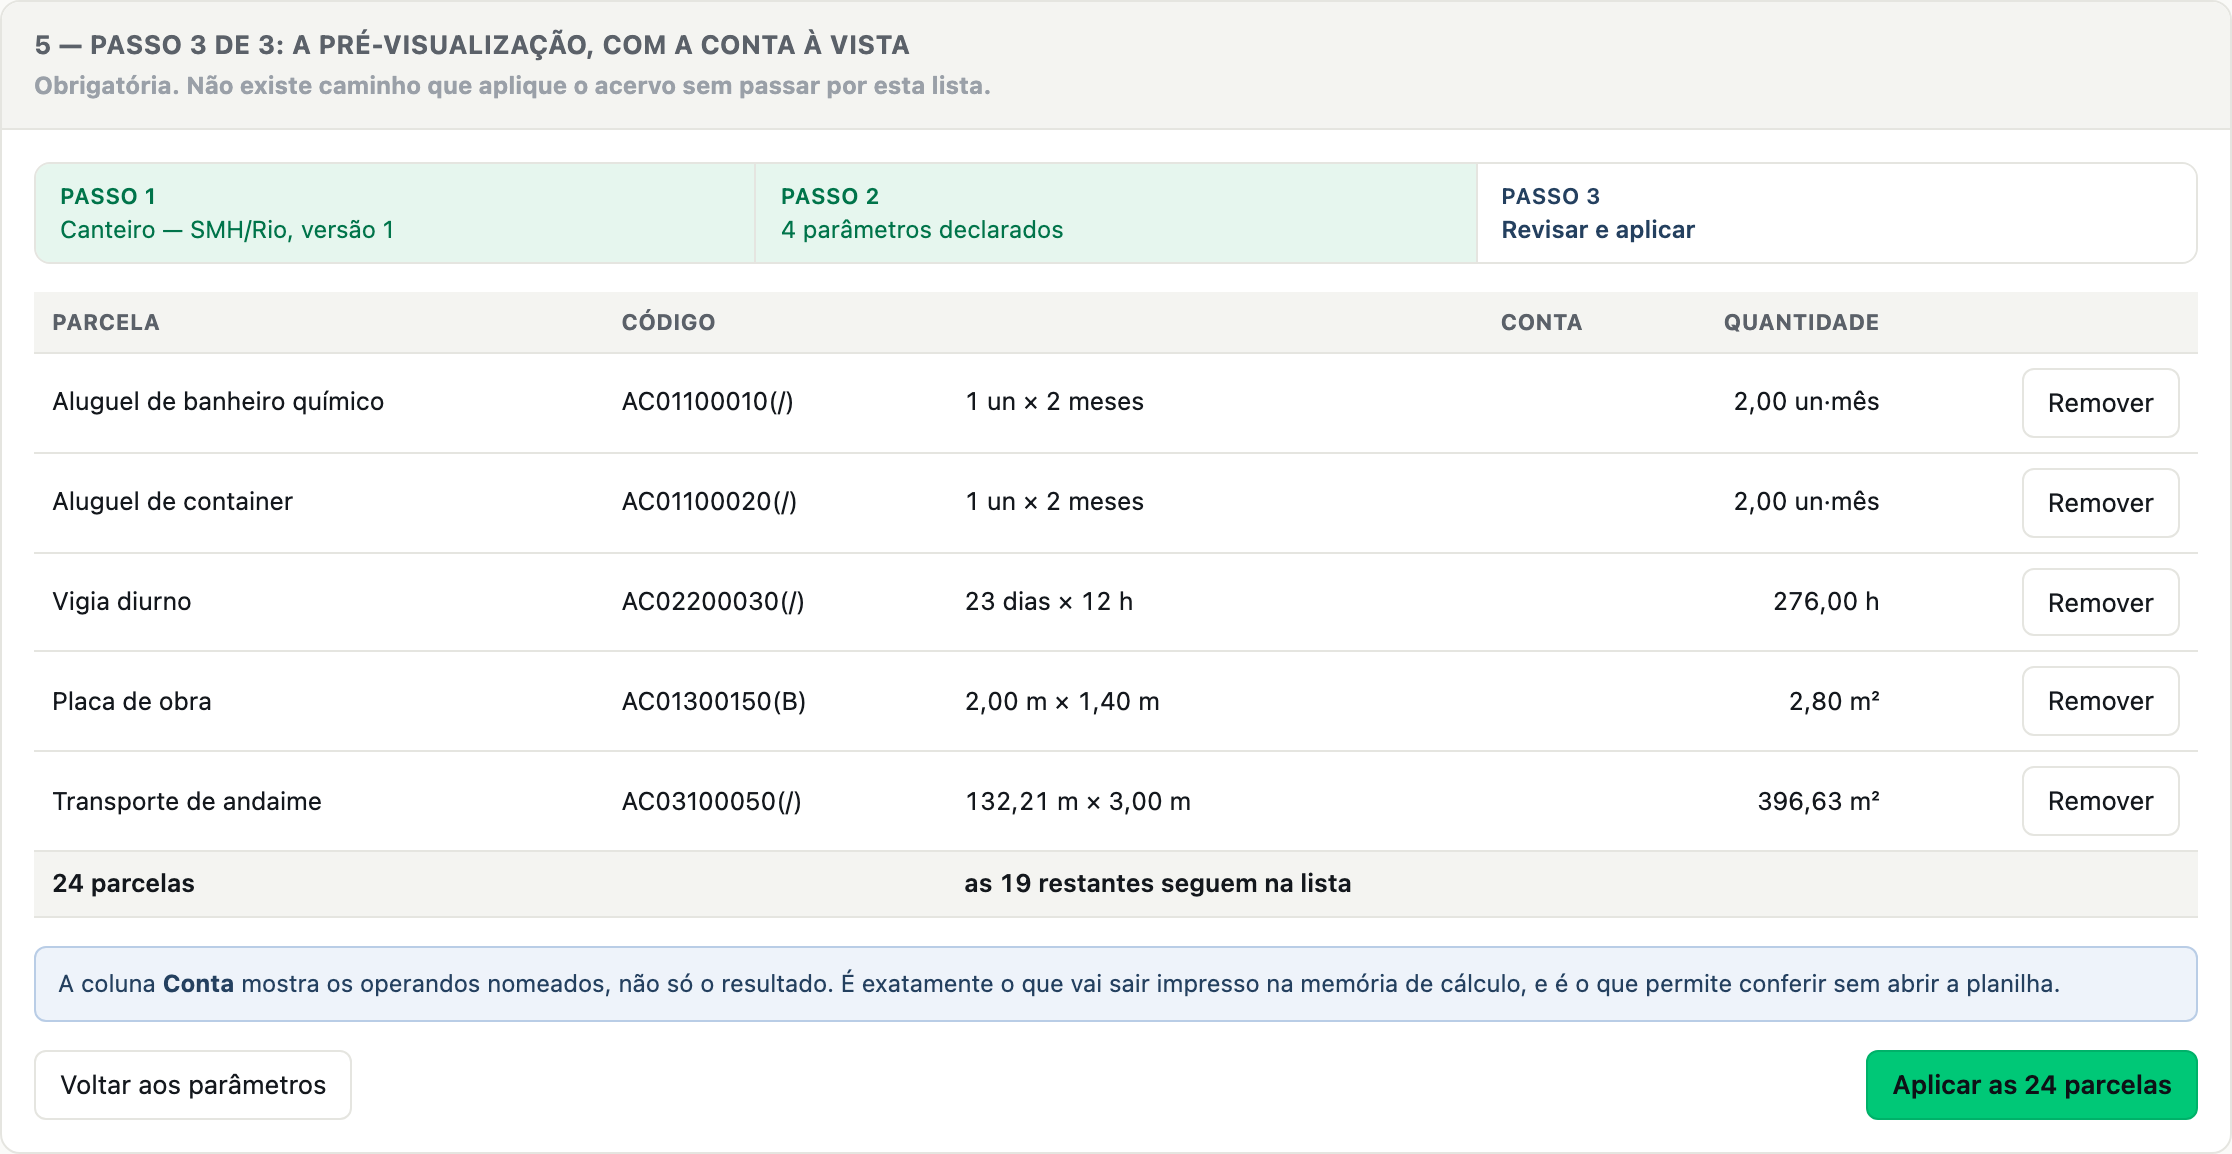
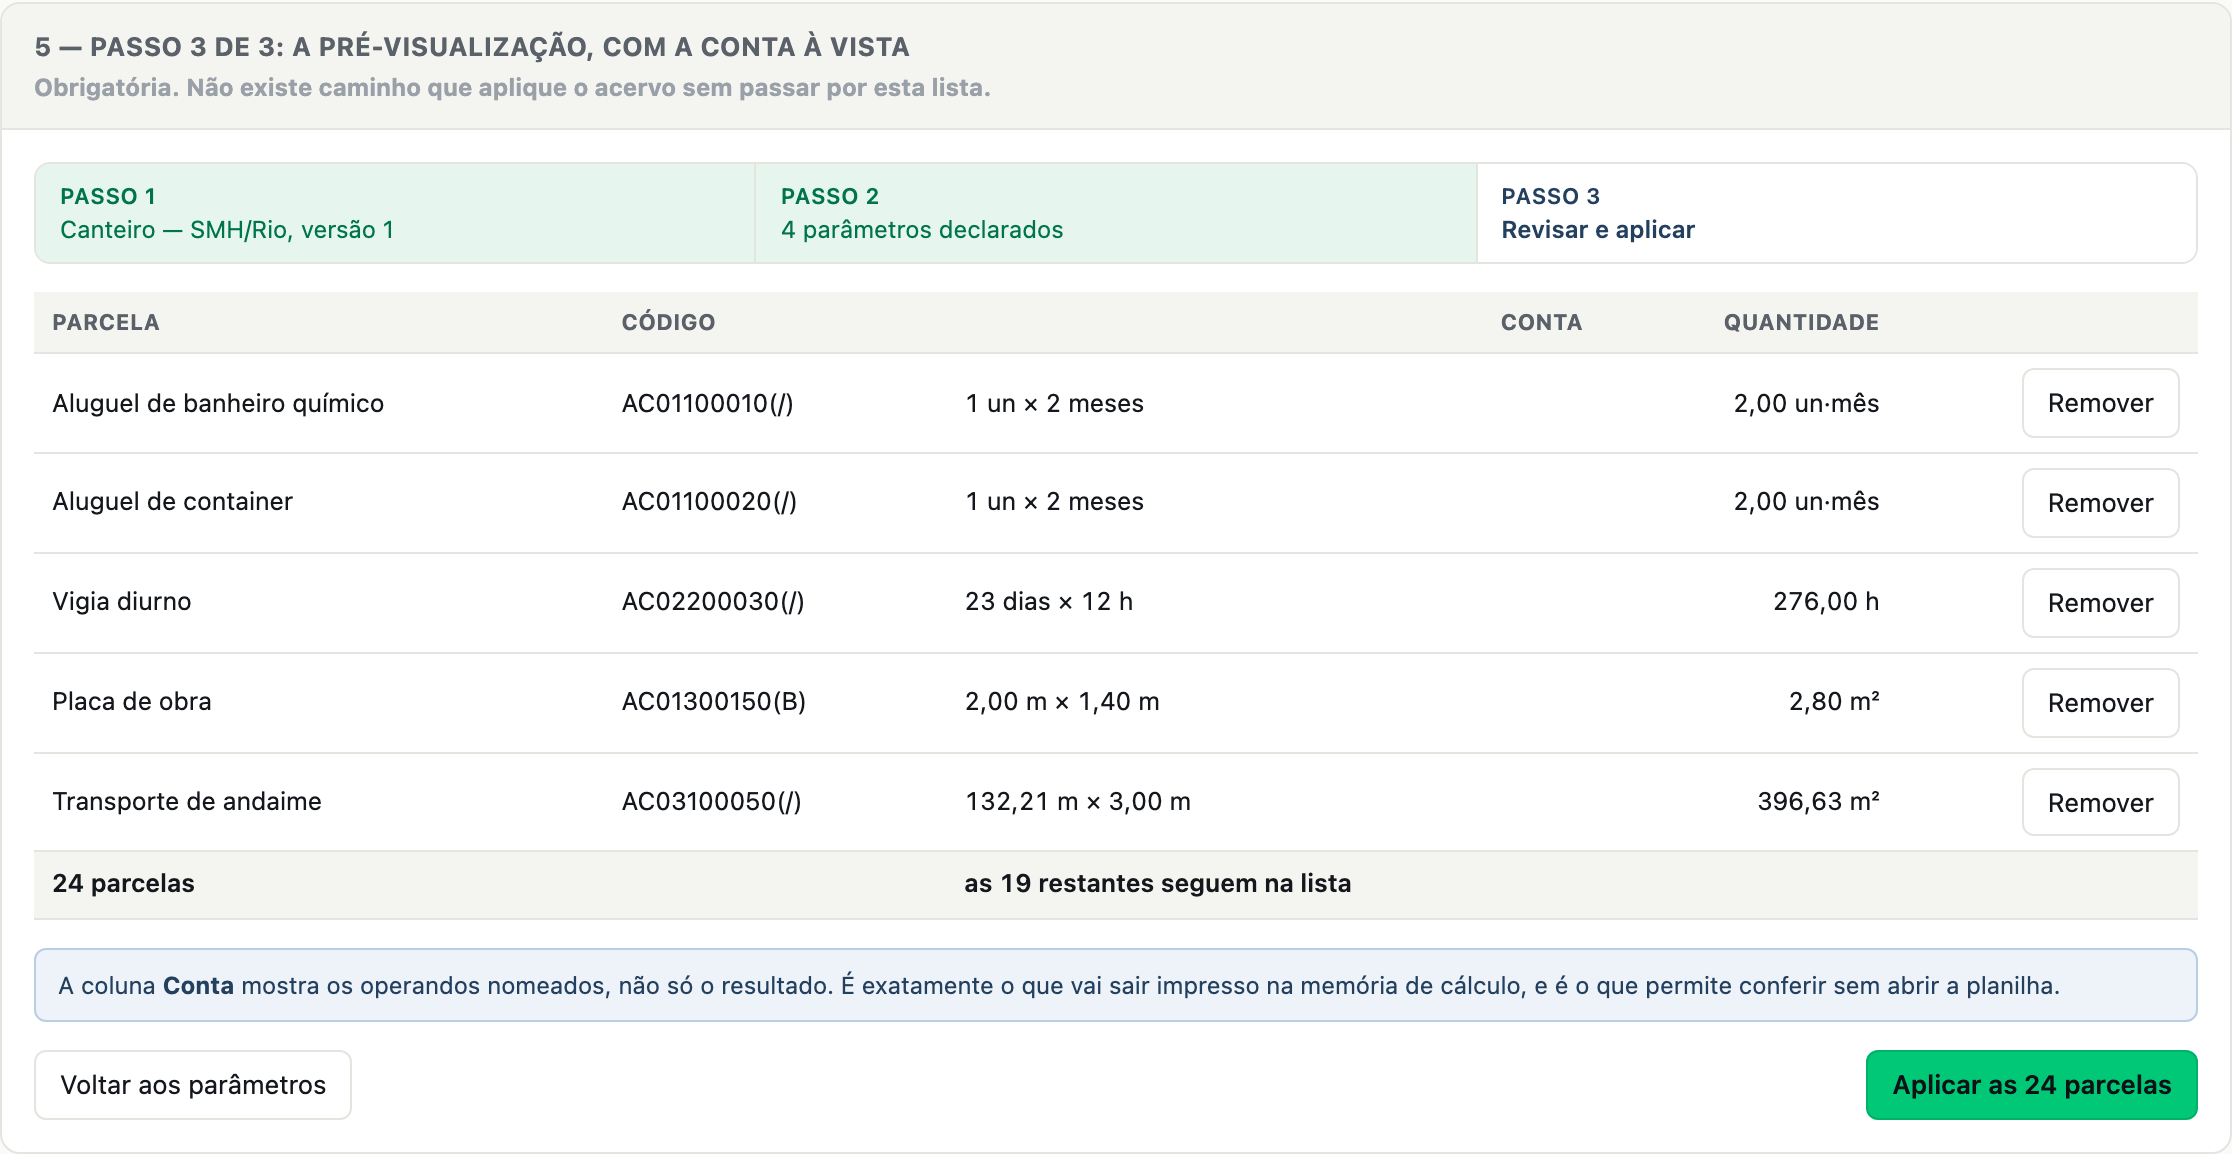
docs(F-042): revisão 2 do pacote — a prévia marca o bloqueado em vez de recusar
A revisão 1 foi aprovada e construída, e a implementação da tela expôs um beco sem
saída no próprio pacote: a recusa de parâmetro faltante dizia 'declare, ou remova na
pré-visualização as parcelas que os citam', mas acontecia ANTES de a pré-visualização
existir. Um acervo de 24 parcelas em que só 2 citam um parâmetro que a orçamentista
não tem ficava inteiramente inaplicável. O mesmo valia para o código ausente.

A emenda: pré-visualizar é ler, e ler não materializa nada — a lista mostra todas as
parcelas e marca as bloqueadas, com o que falta no lugar da quantidade, e a linha
bloqueada continua removível. A falha fechada continua inteira no ato de aplicar,
nomeando todos os faltantes e não materializando nem as parcelas completas.

Decisões 5 e 9 emendadas, decisão 10 acrescentada (aplicar indisponível traz o motivo
nomeado, nunca um botão apagado). As outras oito ficam intactas — inclusive a que mais
importa, a de que não existe caminho que aplique sem passar pela pré-visualização.

diff --git a/docs/features/F-042-acervo-de-parcelas-de-canteiro/mock/acervo-de-parcelas-de-canteiro.html b/docs/features/F-042-acervo-de-parcelas-de-canteiro/mock/acervo-de-parcelas-de-canteiro.html
@@ -158,6 +158,13 @@
         font-variant-numeric: tabular-nums;
         color: var(--ink);
       }
+      tr.bloqueada td {
+        background: #fdf5e8;
+        color: var(--atencao);
+      }
+      tr.bloqueada td.acao {
+        color: var(--ink);
+      }
       tr.removida td {
         background: var(--surface-sunken);
         color: var(--muted);
@@ -555,46 +562,88 @@
 
       <section class="estado">
         <h2>
-          4 — A recusa do parâmetro faltante
+          4 — O que está bloqueado aparece na lista, em vez de barrar a lista
           <small
-            >Falha fechada: nomeia todos os que faltam, e não materializa nenhuma parcela — nem
-            as que estariam completas.</small
+            >Pré-visualizar é ler, e ler não materializa nada. A falha fechada continua
+            inteira no ato de aplicar.</small
           >
         </h2>
         <div class="corpo">
-          <div class="linha-campos">
-            <label class="campo">
-              Prazo de obra
-              <input type="text" value="2" />
-              <span class="pedido">meses · citado por 6 parcelas</span>
-            </label>
-            <label class="campo">
-              Semiperímetro
-              <input class="faltante" type="text" value="" />
-              <span class="pedido">m · citado por 2 parcelas</span>
-            </label>
-            <label class="campo">
-              Altura do alambrado
-              <input class="faltante" type="text" value="" />
-              <span class="pedido">m · citado por 2 parcelas</span>
-            </label>
-            <label class="campo">
-              Dias de vigia (12 h)
-              <input type="text" value="23" />
-              <span class="pedido">dias · citado por 1 parcela</span>
-            </label>
+          <div class="aviso atencao">
+            <strong>2 das 24 parcelas não podem nascer:</strong> falta declarar
+            <strong>semiperímetro</strong> e <strong>altura do alambrado</strong>. Declare os
+            parâmetros, ou remova estas duas parcelas para aplicar as outras 22.
+          </div>
+          <table>
+            <thead>
+              <tr>
+                <th>Parcela</th>
+                <th>Código</th>
+                <th>Conta</th>
+                <th class="mono">Quantidade</th>
+                <th>&nbsp;</th>
+              </tr>
+            </thead>
+            <tbody>
+              <tr>
+                <td>Aluguel de banheiro químico</td>
+                <td>AC01100010(/)</td>
+                <td class="conta-celula">1 un × 2 meses</td>
+                <td class="mono">2,00 un·mês</td>
+                <td class="acao"><button>Remover</button></td>
+              </tr>
+              <tr>
+                <td>Vigia diurno</td>
+                <td>AC02200030(/)</td>
+                <td class="conta-celula">23 dias × 12 h</td>
+                <td class="mono">276,00 h</td>
+                <td class="acao"><button>Remover</button></td>
+              </tr>
+              <tr class="bloqueada">
+                <td>Transporte de andaime</td>
+                <td>AC03100050(/)</td>
+                <td class="conta-celula">SEMIPERÍMETRO × ALTURA DO ALAMBRADO</td>
+                <td class="mono">falta declarar semiperímetro</td>
+                <td class="acao"><button>Remover</button></td>
+              </tr>
+              <tr class="bloqueada">
+                <td>Montagem de alambrado provisório</td>
+                <td>AC03100080(/)</td>
+                <td class="conta-celula">SEMIPERÍMETRO × ALTURA DO ALAMBRADO</td>
+                <td class="mono">falta declarar altura do alambrado</td>
+                <td class="acao"><button>Remover</button></td>
+              </tr>
+              <tr class="total">
+                <td>22 parcelas podem nascer</td>
+                <td>&nbsp;</td>
+                <td class="conta-celula">2 bloqueadas</td>
+                <td class="mono">&nbsp;</td>
+                <td>&nbsp;</td>
+              </tr>
+            </tbody>
+          </table>
+          <div class="acoes">
+            <button>Voltar aos parâmetros</button>
+            <button class="primario empurra" disabled>Aplicar</button>
+          </div>
+          <div class="aviso">
+            O botão fica indisponível <strong>com o motivo escrito ao lado</strong>, nunca só
+            apagado. E a linha bloqueada continua removível — é assim que se aplica as 22 sem
+            ter o parâmetro que as outras 2 exigem.
           </div>
           <div class="aviso recusa">
-            <strong>Nada foi aplicado.</strong> O acervo “Canteiro — SMH/Rio, versão 1” cita dois
-            parâmetros que não foram declarados: <strong>semiperímetro</strong> e
-            <strong>altura do alambrado</strong>. Declare os dois, ou remova na pré-visualização
-            as parcelas que os citam.
+            <strong>No ato de aplicar, a recusa continua fechada.</strong> Se o pedido chegar ao
+            servidor com parcela bloqueada, ele recusa nomeando <strong>todos</strong> os
+            parâmetros faltantes e <strong>nada</strong> é materializado — nem as parcelas que
+            estariam completas. Prever não é aplicar.
           </div>
-          <p>
-            A recusa nomeia os parâmetros por extenso e diz as duas saídas. Aplicar “o que dá” e
-            deixar o resto para depois produziria uma planilha parcial que parece completa.
-          </p>
         </div>
+        <p class="nota-implementador">
+          Emenda da revisão 2. Na revisão 1 a recusa acontecia aqui, antes da lista existir — e
+          a própria mensagem oferecia "remova na pré-visualização", uma saída que não havia
+          como alcançar. O mesmo vale para o código ausente do catálogo (estado 8): ele agora
+          marca a linha, e a recusa fechada continua no ato.
+        </p>
       </section>
 
       <section class="estado">
@@ -810,15 +859,20 @@
           >
         </h2>
         <div class="corpo">
+          <div class="aviso atencao">
+            <strong>1 parcela não pode nascer:</strong> o acervo “Canteiro — SMH/Rio, versão 1”
+            cita o código <strong>AC03100050(/)</strong>, que não existe no catálogo desta
+            rodada (SCO-Rio, Fev/2026). Remova a parcela para aplicar as demais, escolha outro
+            acervo, ou publique uma versão dele que use um código do catálogo vigente.
+          </div>
           <div class="aviso recusa">
-            <strong>Nada foi aplicado.</strong> O acervo “Canteiro — SMH/Rio, versão 1” cita o
-            código <strong>AC03100050(/)</strong>, que não existe no catálogo desta rodada
-            (SCO-Rio, Fev/2026). Escolha outro acervo, publique uma versão nova dele, ou remova
-            a parcela na pré-visualização.
+            <strong>No ato de aplicar, a recusa continua fechada</strong> e nomeia o código.
+            Nada é materializado.
           </div>
           <p>
             Pular a parcela em silêncio produziria um orçamento com uma linha a menos e nenhum
-            sinal — o modo de falha mais caro que este pacote precisa impedir.
+            sinal — o modo de falha mais caro que este pacote precisa impedir. Marcá-la na lista
+            não é pular: é dizer, e deixar a decisão com quem orça.
           </p>
         </div>
       </section>

diff --git a/docs/features/F-042-acervo-de-parcelas-de-canteiro/mock/README.md b/docs/features/F-042-acervo-de-parcelas-de-canteiro/mock/README.md
@@ -1,8 +1,8 @@
 # Design Approval Package — F-042, o acervo de parcelas de canteiro
 
 Classification: INTERFACE_CHANGE  
-Revision: 1  
-Status: **Approved (2026-08-28)**  
+Revision: **2**  
+Status: **Awaiting approval** (a revisão 1 foi aprovada em 2026-08-28)  
 Date: 2026-08-28  
 Produced by: agente (Claude Code)
 
@@ -16,14 +16,46 @@ Produced by: agente (Claude Code)
 > [ADR-0059](../../../adr/0059-item-contratado-fora-da-tabela-sco.md) já foi cumprido em
 > 2026-08-28.
 
+## Por que existe uma revisão 2
+
+A revisão 1 foi aprovada e construída. Ao implementar a tela, apareceu um **beco sem saída no
+próprio pacote**: a recusa de parâmetro faltante dizia *"Declare os dois, **ou remova na
+pré-visualização** as parcelas que os citam"* — mas a recusa acontecia **antes** da
+pré-visualização existir. Não havia lista de onde remover. Um acervo de 24 parcelas em que
+apenas 2 citam um parâmetro que a orçamentista não tem ficava **inteiramente** inaplicável.
+
+O mesmo beco valia para o código ausente do catálogo.
+
+**Emenda aprovada pelo dono em 2026-08-28**: a pré-visualização deixa de recusar e passa a
+**mostrar todas as parcelas, marcando as bloqueadas**. Pré-visualizar é ler, e ler não
+materializa nada; a falha fechada continua **inteira** no ato de aplicar.
+
+O que muda, em uma frase por item:
+
+- **Decisão 5 é emendada**: a recusa por parâmetro faltante sai da pré-visualização e fica só
+  no ato. Na lista, a parcela bloqueada diz o que falta no lugar da quantidade, e continua
+  removível — é assim que se aplicam as 22 sem ter o parâmetro que as outras 2 exigem.
+- **Decisão 9 é emendada** do mesmo jeito, para o código ausente do catálogo: ele marca a
+  linha, e a recusa fechada continua no ato.
+- **Decisão nova (10)**: aplicar fica indisponível enquanto houver parcela bloqueada não
+  removida, **com o motivo nomeado ao lado** — nunca um botão apagado sem explicação. A tela
+  só pode fazer isso porque a pré-visualização lhe deu a informação exata, parcela a parcela;
+  o servidor continua recusando fechado se o ato chegar mesmo assim.
+- **As oito outras decisões da revisão 1 ficam intactas**, incluindo a que mais importa: não
+  existe caminho que aplique sem passar pela pré-visualização.
+
+A captura `04-recusa-parametro.png` da revisão 1 foi substituída por
+[`04-bloqueadas-na-lista.png`](04-bloqueadas-na-lista.png), e `08-recusa-codigo.png` por
+[`08-codigo-ausente.png`](08-codigo-ausente.png).
+
 ## Registro de aprovação
 
 | Campo | Valor |
 | --- | --- |
-| O que se aprova | a composição visual da revisão 1 e as nove decisões listadas abaixo |
-| Aprovado por | Daniel Campos |
-| Data | 2026-08-28 |
-| Revisão | 1 |
+| O que se aprova | a composição visual da revisão 2, as duas decisões emendadas, a decisão 10 e as oito decisões da revisão 1 que ela preserva |
+| Aprovado por | — |
+| Data | — |
+| Revisão | 2 |
 | Explicitamente **não** coberto | a copy final; os códigos, nomes de parâmetro e números das capturas, que são sintéticos; **quais** são as 24 parcelas do Campo do Toca, que dependem da autoria humana do primeiro acervo; e a decisão do ADR-0060, que é gate próprio |
 
 Aprovar esta revisão não aprova a seguinte: pacote materialmente alterado é revisão nova e
@@ -38,11 +70,11 @@ precisa de registro próprio.
 | [`01-onde-vive.png`](01-onde-vive.png) | Onde a superfície vive: a etapa Códigos, hoje sem apoio nenhum para o canteiro |
 | [`02-escolher-acervo.png`](02-escolher-acervo.png) | Passo 1 — escolher o acervo, com a versão à vista |
 | [`03-declarar-parametros.png`](03-declarar-parametros.png) | Passo 2 — declarar os parâmetros de obra que o acervo cita |
-| [`04-recusa-parametro.png`](04-recusa-parametro.png) | A recusa do parâmetro faltante, nomeando todos os que faltam |
+| [`04-bloqueadas-na-lista.png`](04-bloqueadas-na-lista.png) | O que está bloqueado aparece na lista, com o que falta no lugar da quantidade |
 | [`05-previsualizacao.png`](05-previsualizacao.png) | Passo 3 — a pré-visualização obrigatória, com a conta à vista |
 | [`06-remover-parcela.png`](06-remover-parcela.png) | Remover uma parcela que não se aplica |
 | [`07-aplicado.png`](07-aplicado.png) | Aplicado: a parcela na matriz, com a proveniência e a reaplicação |
-| [`08-recusa-codigo.png`](08-recusa-codigo.png) | A recusa do código ausente do catálogo da rodada |
+| [`08-codigo-ausente.png`](08-codigo-ausente.png) | O código ausente do catálogo marca a linha; a recusa fechada fica no ato |
 | [`09-autoria.png`](09-autoria.png) | Guardar as parcelas da rodada como acervo novo ou versão nova |
 
 Os números são sintéticos, mas **aritmeticamente consistentes**: `1 × 2 = 2,00`;
@@ -62,8 +94,9 @@ banheiro químico, container, vigia, placa de obra e transporte de andaime.
 | Aplicar acervo | passo 2 — parâmetros | sim (03) |
 | Aplicar acervo | passo 3 — pré-visualização | sim (05) |
 | Aplicar acervo | pré-visualização com parcela removida | sim (06) |
-| Aplicar acervo | recusa — parâmetro faltante | sim (04) |
-| Aplicar acervo | recusa — código ausente do catálogo | sim (08) |
+| Aplicar acervo | pré-visualização com parcela bloqueada por parâmetro faltante | sim (04) |
+| Aplicar acervo | pré-visualização com parcela bloqueada por código ausente | sim (08) |
+| Aplicar acervo | recusa fechada do **ato**, nomeando todos os faltantes | sim (04, como aviso) |
 | Aplicar acervo | acervo vazio / nenhum acervo disponível | **não** — ver questões abertas |
 | Aplicar acervo | carregando | **não** — o cálculo é local e determinístico; a etapa não tem espera de rede própria além da que a jornada já tem |
 | Aplicar acervo | sem papel para aplicar | **não** — a etapa Códigos inteira já é gateada pelo papel da jornada, e este pacote não introduz permissão nova |
@@ -128,6 +161,10 @@ sugestão de parâmetro simplesmente não existe na tela.
    as parcelas que estariam completas. Aplicar "o que dá" produziria uma planilha parcial com
    aparência de completa, que é o modo de falha mais caro desta feature.
 
+   **Emendado na revisão 2**: essa recusa vale para o **ato de aplicar**, não para a
+   pré-visualização. Prever é ler; a lista mostra tudo e marca o que não pode nascer, porque
+   sem a lista não existia a saída que a própria recusa oferecia.
+
 6. **A remoção é por parcela, na prévia, e a parcela removida continua visível, riscada.** Ela
    sai da conta, não da tela: sumir por completo deixaria a lista curta sem dizer o que saiu.
    Remover é reversível até aplicar.
@@ -141,9 +178,18 @@ sugestão de parâmetro simplesmente não existe na tela.
    a leitura visual da idempotência que a feature exige. O carimbo mostra os parâmetros da
    última aplicação, para que "reaplicar" não seja um salto no escuro.
 
-9. **Código do acervo ausente do catálogo é recusa por extenso, nomeando o código — nunca
-   parcela pulada em silêncio.** É o risco de "acervo silenciosamente desatualizado" da
-   feature: um orçamento com uma linha a menos e nenhum sinal.
+9. **Código do acervo ausente do catálogo nunca é parcela pulada em silêncio.** É o risco de
+   "acervo silenciosamente desatualizado" da feature: um orçamento com uma linha a menos e
+   nenhum sinal.
+
+   **Emendado na revisão 2**, do mesmo jeito que a decisão 5: na pré-visualização ele marca a
+   linha nomeando o código, e no ato de aplicar a recusa continua fechada. Marcar não é pular
+   — é dizer, e deixar a decisão com quem orça.
+
+10. **Aplicar fica indisponível enquanto houver parcela bloqueada não removida, com o motivo
+    nomeado ao lado.** Um botão apagado sem explicação seria pior que a recusa que ele
+    substitui. A tela só pode nomear porque a pré-visualização lhe deu a informação parcela a
+    parcela; o servidor continua recusando fechado se o ato chegar assim mesmo.
 
 ## Questões abertas
 

diff --git a/docs/features/F-042-acervo-de-parcelas-de-canteiro/feature.md b/docs/features/F-042-acervo-de-parcelas-de-canteiro/feature.md
@@ -148,9 +148,12 @@ digitadas de novo a cada praça.
 
 ## Human Gates
 
-1. ~~**Design Approval Package**~~ — `INTERFACE_CHANGE`: a superfície de escolher acervo,
-   declarar parâmetros e pré-visualizar. Revisão 1 **aprovada em 2026-08-28** (Daniel
-   Campos): [`mock/README.md`](mock/README.md).
+1. **Design Approval Package** — `INTERFACE_CHANGE`: a superfície de escolher acervo,
+   declarar parâmetros e pré-visualizar. Revisão 1 **aprovada em 2026-08-28** (Daniel Campos).
+   A implementação da tela expôs um beco sem saída no próprio pacote — a recusa oferecia
+   "remova na pré-visualização" e acontecia antes de a pré-visualização existir —, e a emenda
+   aprovada no mesmo dia produziu a **revisão 2**, que aguarda aprovação:
+   [`mock/README.md`](mock/README.md).
 2. ~~Aceite do [ADR-0059](../../adr/0059-item-contratado-fora-da-tabela-sco.md)~~ —
    **cumprido em 2026-08-28** (Daniel Campos), alternativa A.
 3. ~~**Decisão do unknown 1** (onde o acervo vive)~~ — virou o
